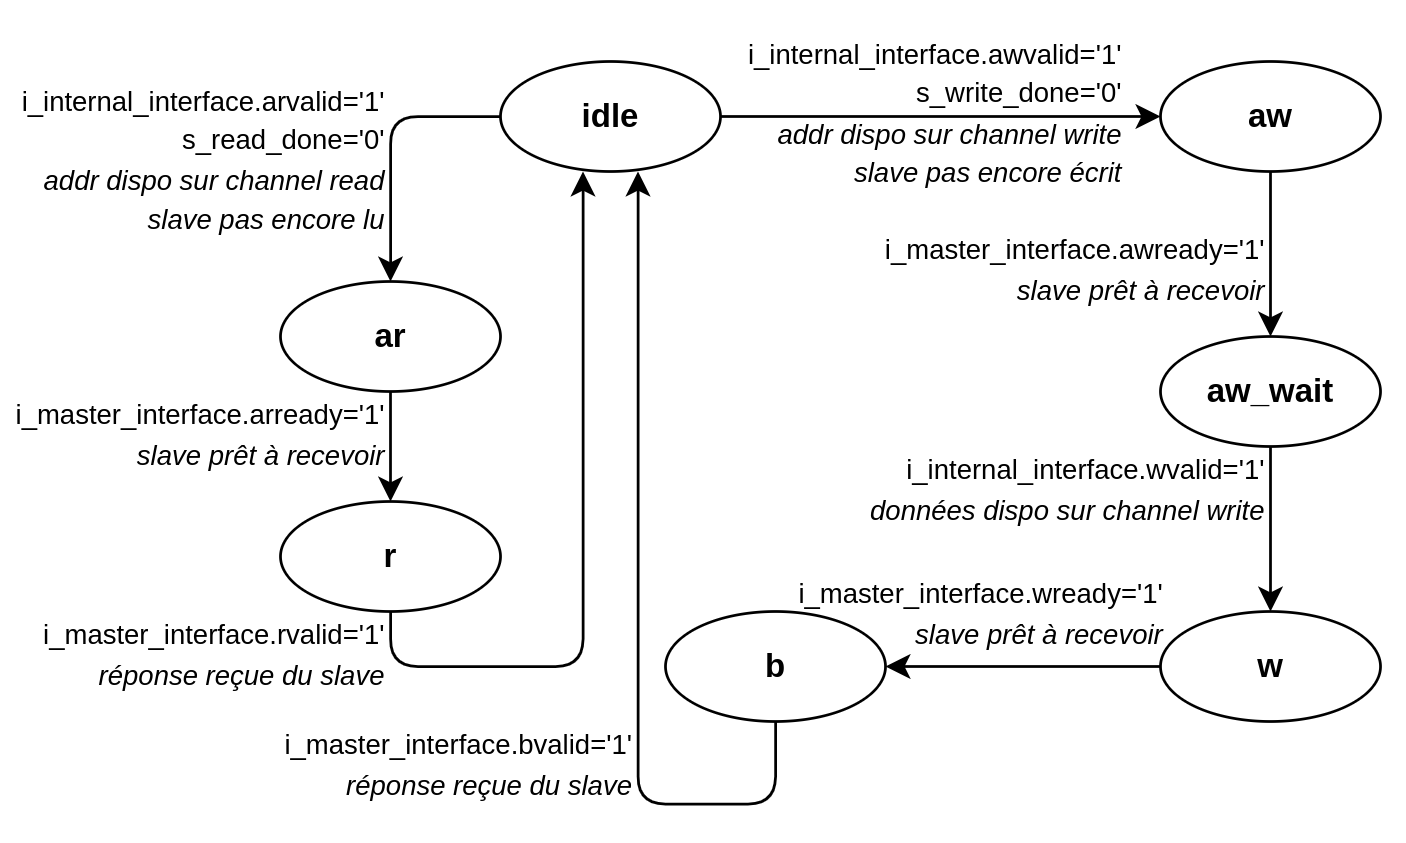
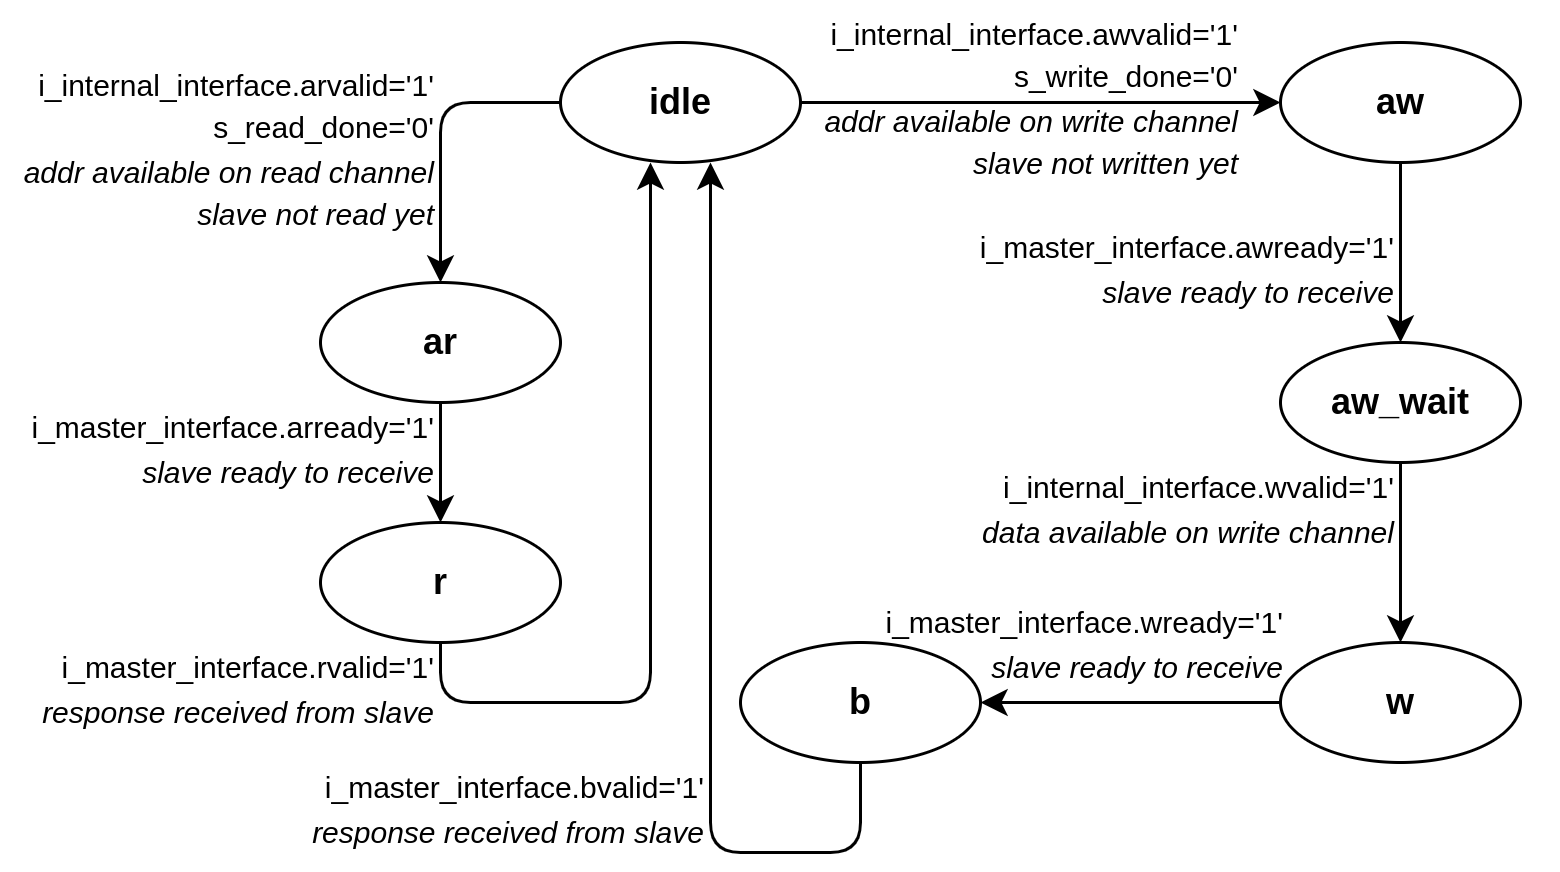
[DOC] Update AXI interconnect readme (english traduction)

diff --git a/src/axi_interconnect/doc/axi_interconnect.md b/src/axi_interconnect/doc/axi_interconnect.md
@@ -1,97 +1,97 @@
 # AXI_INTERCONNECT
 
-L'*axi_interconnect* N-to-1 est un bridge AXI permettant de connecter plusieurs *master* à un unique *slave*, afin qu'ils communiquent selon le protocole *AXI4-light*. L'IP prend en charge la transmission des packets envoyés par les différents master vers le salve, et la répartition des réponses de ce dernier vers les master correspondants. Elle met également en place une bufferisation des packets, afin d'éviter les pertes de données en cas de transmission simultanée par plusieurs master.
+The *axi_interconnect* N-to-1 is an AXI bridge that connects several *masters* to a single *slave*, allowing them to communicate using the *AXI4-light* protocol. The IP handles the transmission of packets sent by the various masters to the salve, and the distribution of the latter's responses to the corresponding masters. It also buffers packets to prevent data loss in the event of simultaneous transmission by several masters.
 
-## Utilisation
+## Usage
 
-Description des génériques
+Generics description
 
-|Generic|Fonction|
+|Generic|Function|
 |---|---|
-|NB_MASTER|Nombre de master à connecter|
-|ADDR_SIZE|Taille des bus d'adresse|
-|DATA_SIZE|Taille des bus de donnée|
-|PROT_SIZE|Taille des flags de protection|
-|STRB_SIZE|Taille des flags de byte strobe|
-|RESP_SIZE|Taille des flags de réponse|
+|NB_MASTER|Number of masters to connect|
+|ADDR_SIZE|Address buses length|
+|DATA_SIZE|Data buses length|
+|PROT_SIZE|Protection flags length|
+|STRB_SIZE|Strobe flags length|
+|RESP_SIZE|Response flags length|
 
-![Image](images/chrono_axi_interconnect.png "Chronogramme séquence axi_interconnect")
+![Image](images/chrono_axi_interconnect.png "Sequence timeline axi_interconnect")
 
-## Description des sous-modules
+## Sub-modules description
 
 ### IP axi_channel_buffer
 
-Les *axi_channel_buffer* sont les blocs mettant en place la bufferisation des données envoyées par le périphériques *émettant* (et valides pour un seul cycle horloge) avant lecture par le périphérique *recevant*.
-Lorsqu'une donnée est présentée en entrée (et validée par le flag *i_data_valid*), le buffer l'enregistre et la maintien en sortie, tout en le signalant par le flag *o_data_valid*. Il abaisse également le flag *o_ready*, signifiant au périphérique *émettant* qu'il ne peut pas recevoir d'autre packets car déjà plein.
-Lorsque le périphérique *recevant* a effectivement lu la donnée, il le signale au buffer via le flag *i_ack*. Le buffer redevient alors *ready* et peut overwrite la donnée précédemment enregistrée.
+The *axi_channel_buffer* are blocks that allow data sent by the *sending* device (and valid for a single clock cycle) to be buffered before it is read by the *receiving* device.
+When data is presented on the input (and validated by the *i_data_valid* flag), the buffer saves it and holds it on the output, signalling it with the *o_data_valid* flag. It also sets the *o_ready* flag, telling the *transmitting* device that it can't receive any more packets, as it's already full.
+When the *receiving* device has actually read the data, it reports it to the buffer via the *i_ack* flag. The buffer then becomes *ready* again and can overwrite the previously stored data.
 
-![Image](images/chrono_axi_channel_buffer.png "Chronogramme séquence axi_channel_buffer")
+![Image](images/chrono_axi_channel_buffer.png "Sequence timeline axi_channel_buffer")
 
-|Signal|Port|Size|Fonction|
+|Signal|Port|Size|Function|
 |---|---|---|---|
-|i_clk|in|1|Horloge système|
-|i_rst_n|in|1|Reset, actif à l'état bas|
-|i_data|in|BUS_SIZE|Données reçues (addr ou data selon channel axi)|
-|i_data_aux|in|AUX_BUS_SIZE|Données auxiliaires reçues (prot, strb ou resp selon channel axi)|
-|i_data_valid|in|1|Flag de validité des données reçues|
-|o_ready|out|1|Buffer prêt à recevoir|
-|o_data|out|BUS_SIZE|Données retransmises (addr ou data selon channel axi)|
-|o_data_aux|out|AUX_BUS_SIZE|Données auxiliaires retransmises (prot, strb ou resp selon channel axi)|
-|o_data_valid|out|1|Flag de validité des données retransmises|
-|i_ack|out|1|Flag de réinitialisation du buffer|
+|i_clk|in|1|System clock|
+|i_rst_n|in|1|Reset, low-state active|
+|i_data|in|BUS_SIZE|Received data (addr or data depending on axi channel)|
+|i_data_aux|in|AUX_BUS_SIZE|Received auxiliary data (prot, strb or resp depending on axi channel)|
+|i_data_valid|in|1|Validity flag for received data|
+|o_ready|out|1|Buffer ready to receive|
+|o_data|out|BUS_SIZE|Forwarded data (addr or data depending on axi channel)|
+|o_data_aux|out|AUX_BUS_SIZE|Forwarded auxiliary data (prot, strb or resp depending on axi channel)|
+|o_data_valid|out|1|Validity flag for forwarded data|
+|i_ack|out|1|Buffer reset flag|
 
-### Type record pour les interfaces
+### Type records for interfaces
 
-Pour réaliser les interfaces, les signaux du bus AXI ont été regroupés dans des types record, afin de faciliter leur instanciation :
+To create the interfaces, the AXI bus signals have been grouped into type records to make them easier to instantiate :
 
-- *AXI4Lite_m_to_s* regroupe les signaux émis par le master vers le slave (channel *addr_read*, *addr_write* et *write* ainsi que signaux *ready* des channel *read* et *resp*).
-- *AXI4Lite_s_to_m* regroupe les signaux émis par le slave vers le master (channel *read* et *resp* ainsi que signaux *ready* des channel *addr_read*, *addr_write* et *write*).
-- *AXI4Lite_m_to_s_array* est un tableau de *AXI4Lite_m_to_s*, de taille équivalente au nombre de master à connecter.
-- *AXI4Lite_s_to_m_array* est un tableau de *AXI4Lite_s_to_m*, de taille équivalente au nombre de master à connecter.
+- *AXI4Lite_m_to_s* groups the signals sent by the master to the slave (*addr_read*, *addr_write* and *write* channels as well as *ready* signals from *read* and *resp* channels).
+- *AXI4Lite_s_to_m* groups the signals sent by the slave to the master (*read* and *resp* channels as well as *ready* signals from *addr_read*, *addr_write* and *write* channels).
+- *AXI4Lite_m_to_s_array* is an array of *AXI4Lite_m_to_s*, of size equal to the number of masters to be connected.
+- *AXI4Lite_s_to_m_array* is an array of *AXI4Lite_s_to_m*, of size equal to the number of masters to be connected.
 
 ![Image](images/arch_axi_interconnect.png "Architecture axi_interconnect")
 
 ### IP axi_slave_interface
 
-Les *axi_slave* regroupent 5 *axi_channel_buffer* pour les 5 channel du protocole *AXI4-Light*. Un *axi_slave* est instancié pour chaque master devant être connecté à l'*axi_interconnect*.
-Les ports *slave_interface* correspondent à l'interface type slave de l'IP, qui doit être connectée au master, et les ports *internal_interface* sont connectés à la machine interne de l'*axi_interconnect*. Les signaux *ready* en mode *in* des ces ports sont en réalité utilisés comme des signaux *ack* pour les *axi_channel_buffer* (cf description *axi_channel_buffer*).
+The *axi_slave* groups 5 *axi_channel_buffers* for the 5 channels of the *AXI4-Light* protocol. An *axi_slave* is instantiated for each master to be connected to the *axi_interconnect*.
+The *slave_interface* ports correspond to the IP's slave interface, which must be connected to the master, and the *internal_interface* ports are connected to the *axi_interconnect*'s internal state machine. The *in* mode *ready* signals for these ports are actually used as *ack* signals for the *axi_channel_buffer* (see *axi_channel_buffer* description).
 
 ![Image](images/arch_axi_slave_interface.png "Architecture axi_slave_interface")
 
-|Signal|Port|Size|Fonction|
+|Signal|Port|Size|Function|
 |---|---|---|---|
-|i_clk|in|1|Horloge système|
-|i_rst_n|in|1|Reset, actif à l'état bas|
-|i_slave_interface|in|AXI4Lite_m_to_s|Données reçues du master|
-|o_slave_interface|out|AXI4Lite_s_to_m|Données envoyées au master|
-|i_internal_interface|in|AXI4Lite_s_to_m|Données reçues en interne|
-|o_internal_interface|out|AXI4Lite_m_to_s|Données envoyées en interne|
+|i_clk|in|1|System clock|
+|i_rst_n|in|1|Reset, low-state active|
+|i_slave_interface|in|AXI4Lite_m_to_s|Data received from master|
+|o_slave_interface|out|AXI4Lite_s_to_m|Data sent to master|
+|i_internal_interface|in|AXI4Lite_s_to_m|Data received from internal logic|
+|o_internal_interface|out|AXI4Lite_m_to_s|Data sent to internal logic|
 
 ### IP axi_master_interface
 
-L'*axi_master_interface* contient les machines d'état gérant les séquences d'envoi et de réception des packets. C'est également elle qui assure l'interface type master de l'IP, via les ports *master_interface* devant être connectés à l'unique slave. Les ports *internal_interface* sont connectés à leurs homologues sur les IP *axi_slave_interface*.
+The *axi_master_interface* contains the state machines that manage the sending and receiving of packets. It also provides the IP's master interface, via the *master_interface* ports which must be connected to the single slave. The *internal_interface* ports are connected to their counterparts on the *axi_slave_interface* IPs.
 
 ![Image](images/arch_axi_master_interface.png "Architecture axi_master_interface")
 
-|Signal|Port|Size|Fonction|
+|Signal|Port|Size|Function|
 |---|---|---|---|
-|i_clk|in|1|Horloge système|
-|i_rst_n|in|1|Reset, actif à l'état bas|
-|i_internal_interface|in|AXI4Lite_s_to_m_array|Données reçues en interne|
-|o_internal_interface|out|AXI4Lite_m_to_s_array|Données envoyées en interne|
-|i_master_interface|in|AXI4Lite_m_to_s|Données reçues du slave|
-|o_master_interface|out|AXI4Lite_s_to_m|Données envoyées au slave|
+|i_clk|in|1|System clock|
+|i_rst_n|in|1|Reset, low-state active|
+|i_internal_interface|in|AXI4Lite_s_to_m_array|Data received from internal logic|
+|o_internal_interface|out|AXI4Lite_m_to_s_array|Data sent to internal logic|
+|i_master_interface|in|AXI4Lite_m_to_s|Data received from slave|
+|o_master_interface|out|AXI4Lite_s_to_m|Data sent to slave|
 
-Toutes les transactions sont gérées par une unique machine d'états (l'utilisation des interfaces ne permettant pas de splitter la gestion en différents process, les type record étant considérés comme ports uniques malgré les multiples signaux qu'ils contiennent, le synthétiseur ne parvient pas à générer une interface drivée par plusieurs process).
-La machine fonctionne selon un principe de round-robin, en interrogeant les *axi_slave_interface* chacune leur tour.
+All transactions are managed by a single state machine (as the use of interfaces does not allow management to be split into different processes, and type records are considered as single ports despite the multiple signals they contain, the synthesizer is unable to generate an interface driven by several processes).
+The machine operates on a round-robin principle, interrogating the *axi_slave_interface* in turn.
 
-![Image](images/sm_axi_master_interface.png "Machine d'état axi_master_interface")
+![Image](images/sm_axi_master_interface.png "State machine axi_master_interface")
 
-Si aucun des channel ne présente de donnée à transmettre, *s_master_index* est incrémenté et la machine d'état interroge le master suivant.
+If none of the channels has data to transmit, *s_master_index* is incremented and the status machine interrogates the next master.
 
-Si une donnée est disponible sur l'un des channel (*addr_read* ou *addr_write*), la machine enregistre les données dans des registres internes, acquitte le buffer afin qu'il se vide, et passe dans l'état correspondant.
-Les états correspondants au différents channel fonctionne tous selon le même principe :
-- Channel bufferisé (côté interne) : attendre que le channel côté master soit *ready*, présenter et valider la donnée, passer à l'état suivant.
-- Channel non-bufferisé (côté master) : attendre que la donnée soit valide, la récupérer et la transmettre au buffer interne, passer à l'état suivant.
+If data is available on one of the channels (*addr_read* or *addr_write*), the machine stores the data in internal registers, acknowledges the buffer so that it empties, and switches to the corresponding state.
+The states corresponding to the different channels all work on the same principle:
+- Buffered channel (internal side): wait until the channel on the master side is *ready*, present and acknowledge the data, then move on to the next state.
+- Unbuffered channel (master side): wait until the data is valid, retrieve and transmit it to the internal buffer, then move on to the next state.
 
-Une fois un transaction de *read* ou de *write* effectuée (retour à l'état *idle*), le flag correspondant (*s_read_done* ou *s_write_done*) est levé. Si une donnée est de nouveau disponible sur le même channel mais que le flag correspondant est levé, la machine passe malgré tout au master suivant, et ce afin d'éviter tout risque de famine. Chaque master peut donc effectuer une seule transaction *read* et une seule transaction *write* par tour.
+Once a *read* or *write* transaction has been completed (return to *idle* state), the corresponding flag (*s_read_done* or *s_write_done*) is raised. If data is available again on the same channel, but the corresponding flag is raised, the machine moves on to the next master, to avoid any risk of starvation. Each master can therefore perform a single *read* transaction and a single *write* transaction per turn.
